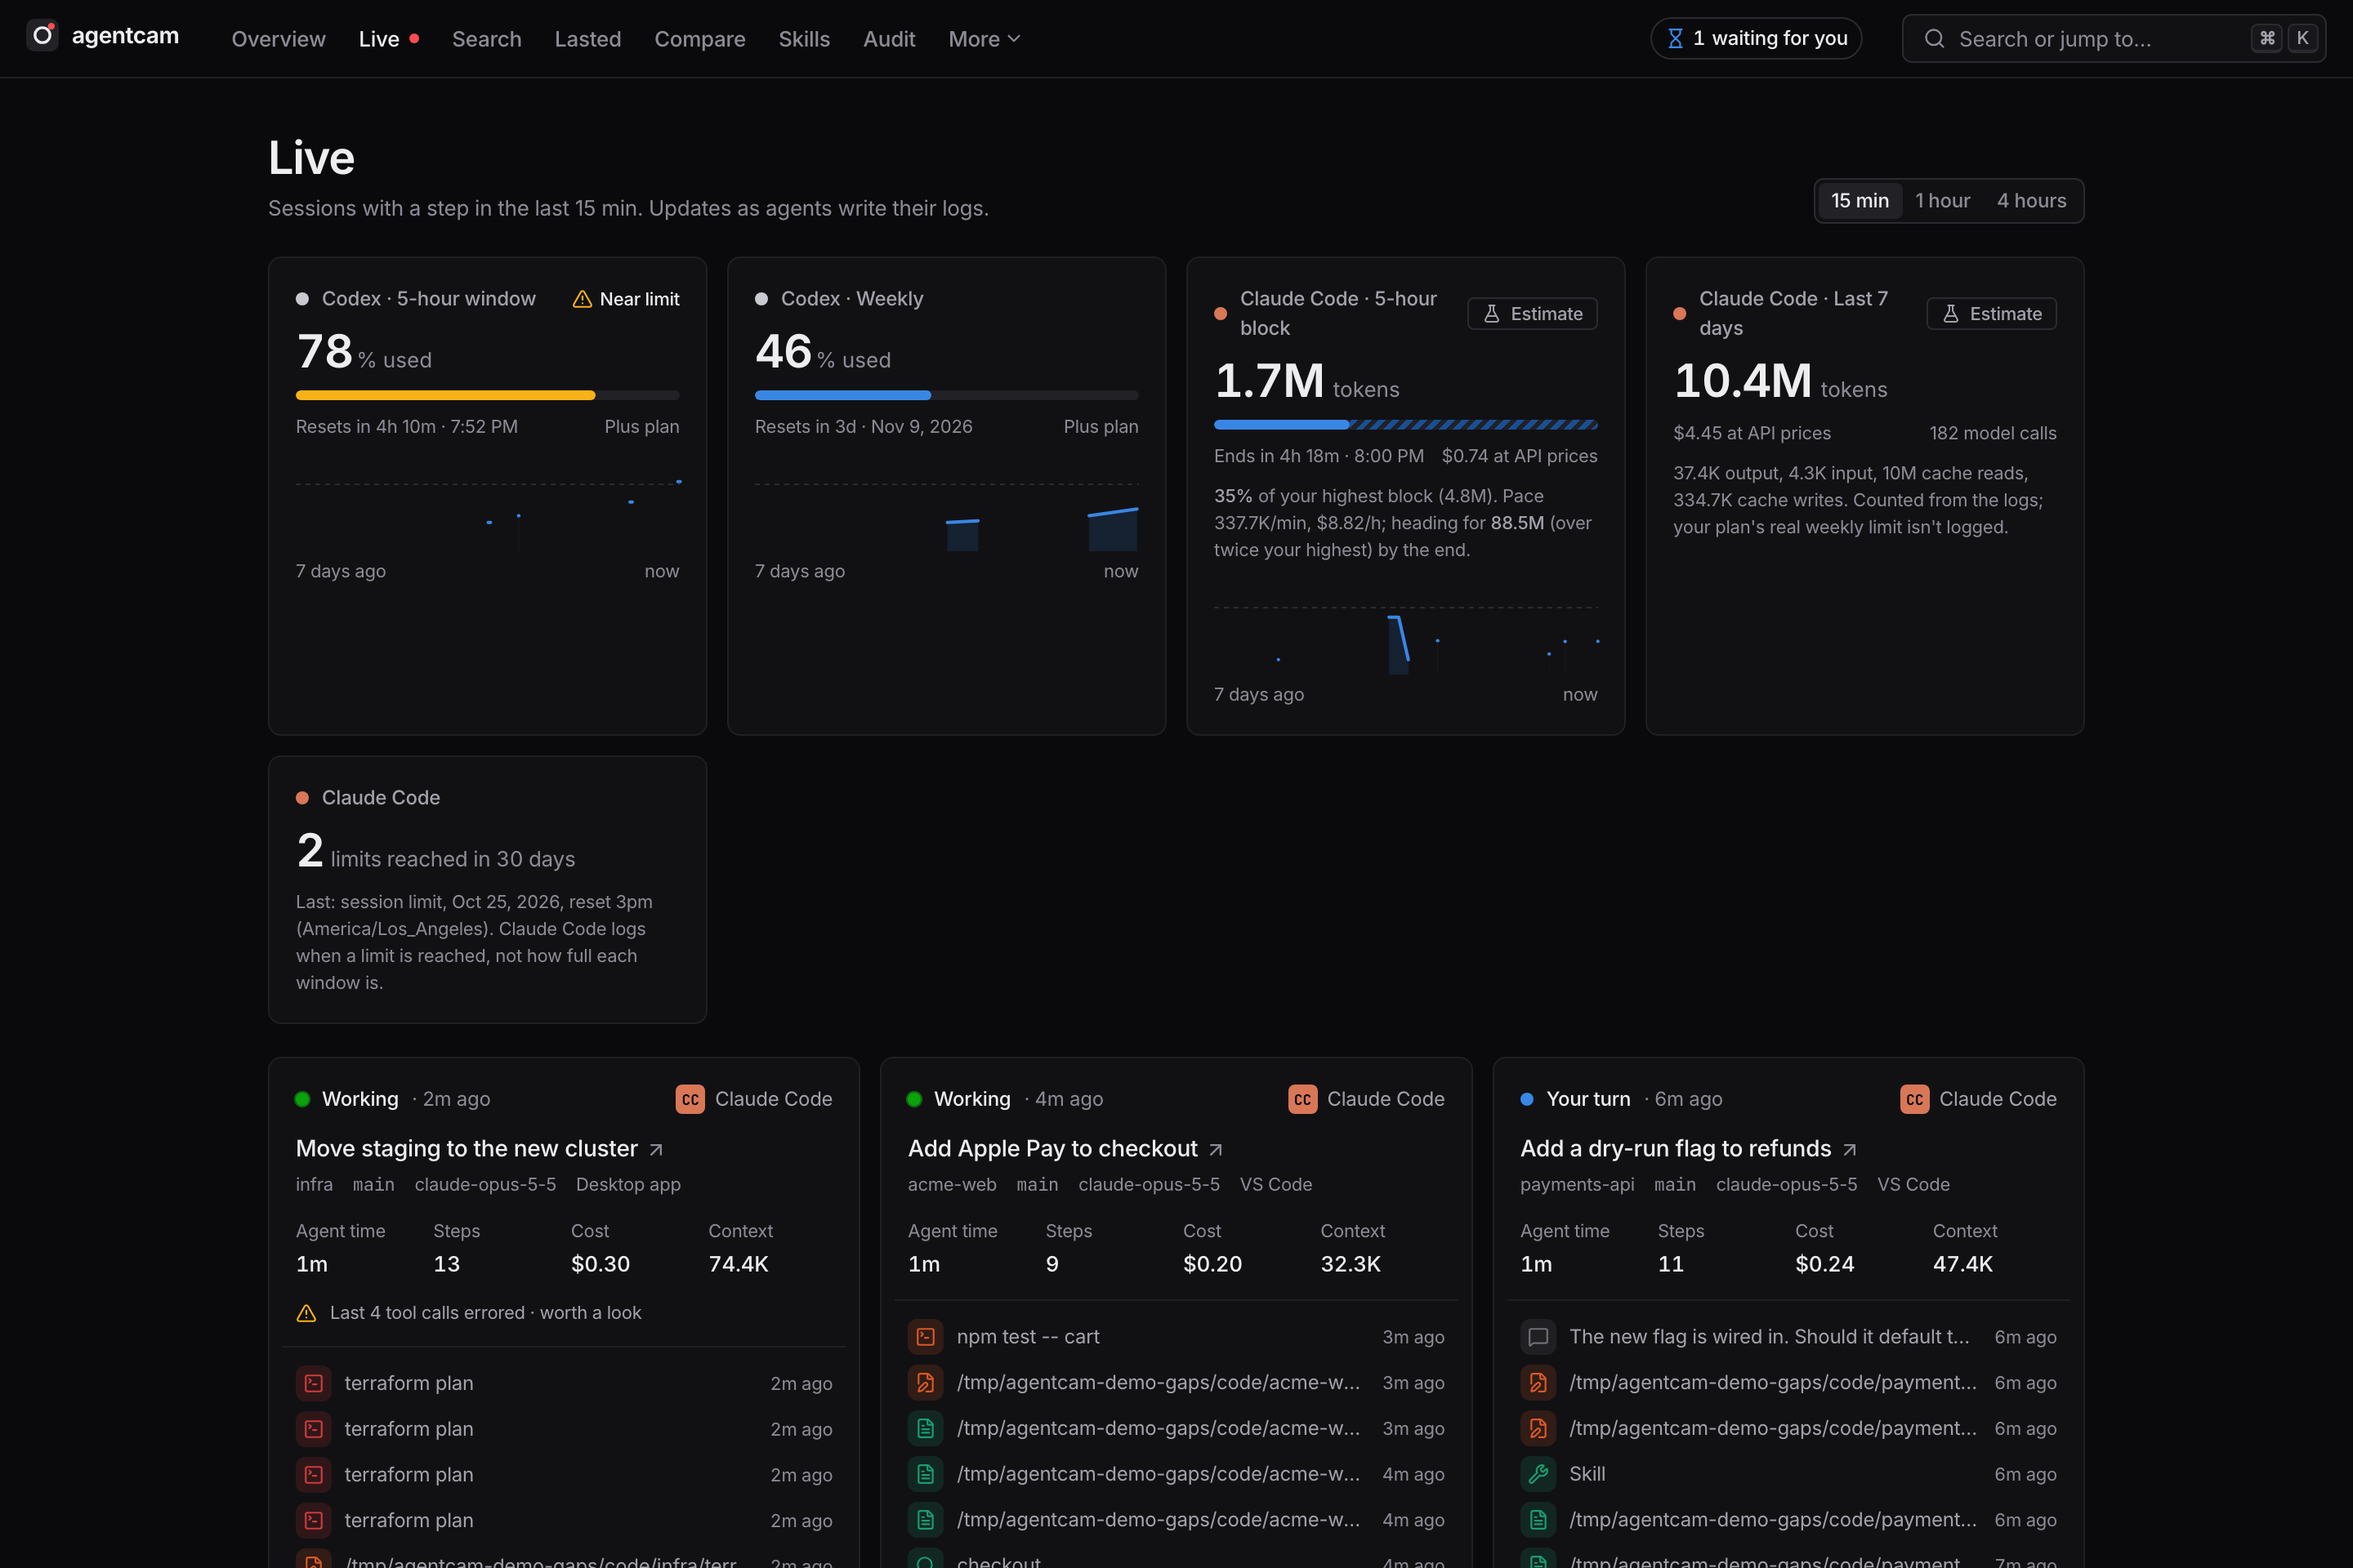
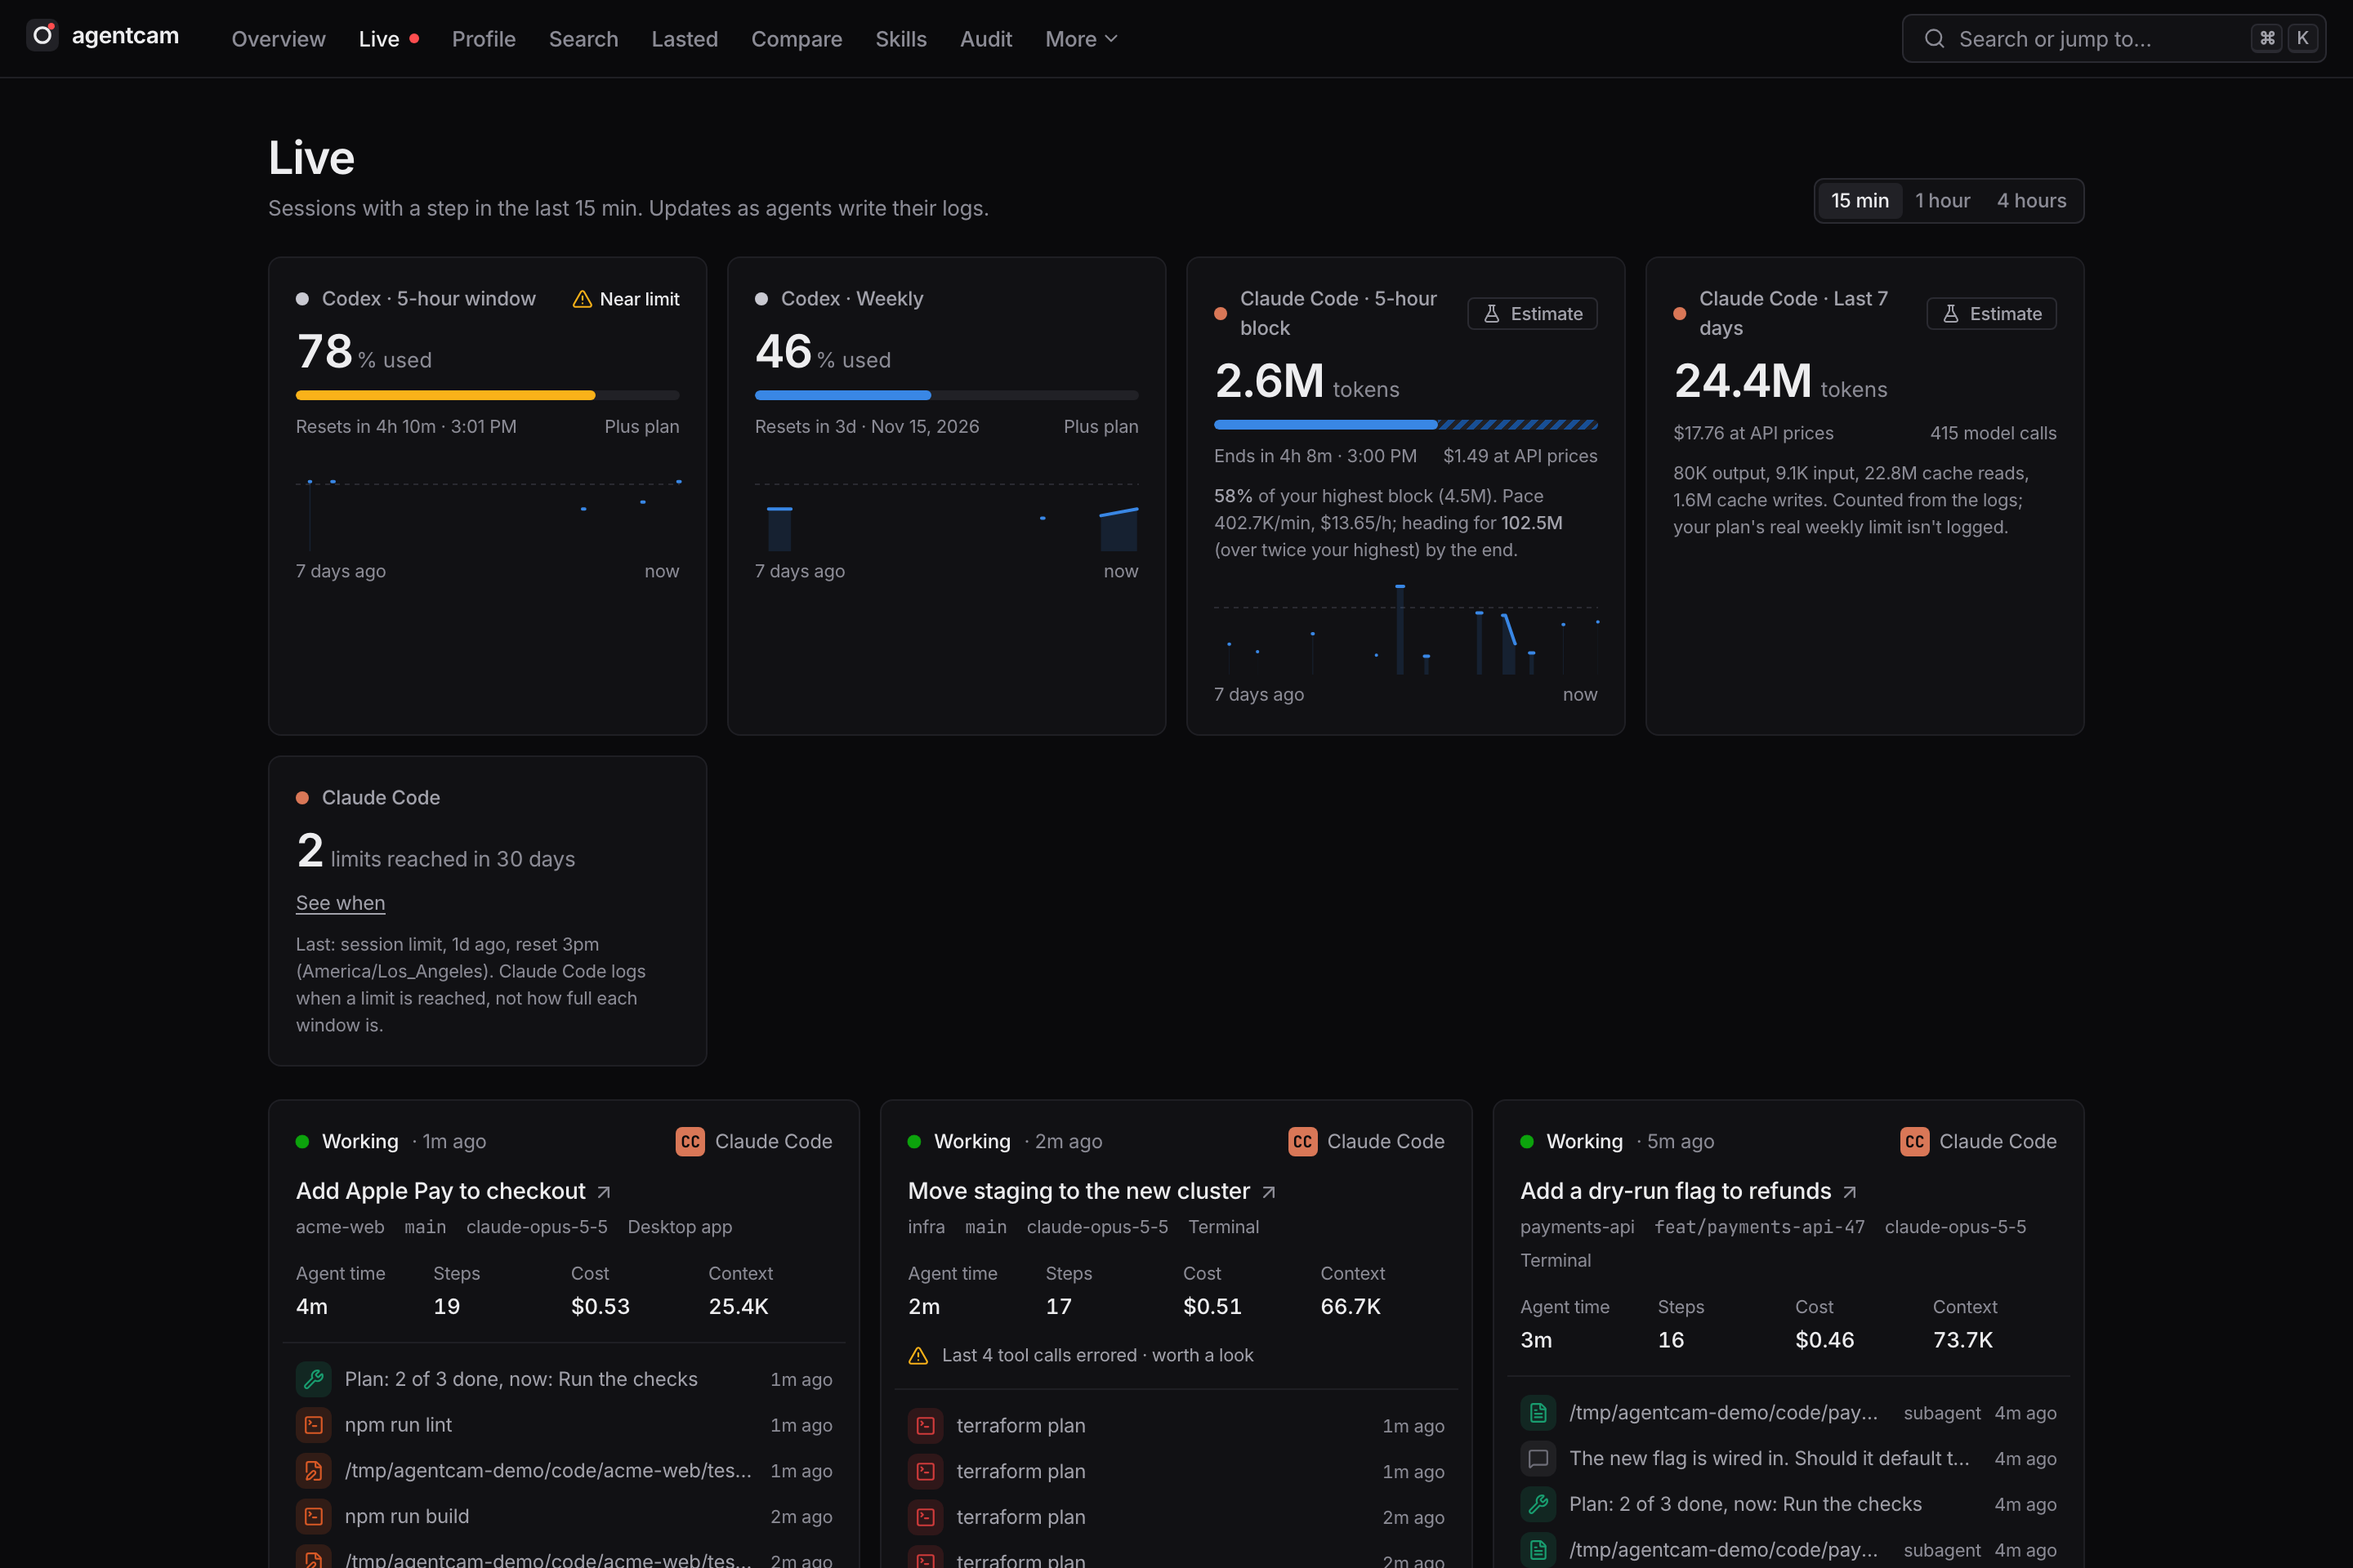
Styleguide rule for clickable numbers, changelog, retaken screenshots

diff --git a/web/src/pages/Styleguide.tsx b/web/src/pages/Styleguide.tsx
@@ -230,6 +230,11 @@ export function Styleguide() {
 
         <section id="components" className={s.section}>
           <h2>Components</h2>
+          <p className={s.rule}>
+            If it sums up steps, it opens them. A number, bar, row or badge that adds up steps opens those steps, and a click
+            never dead-ends: it lands on a filtered list or on a replay step. Hover and pointer only on things you can click,
+            and every one of those is a real button or link with text or an <code>aria-label</code>.
+          </p>
 
           <span className={s.sub}>Buttons</span>
           <div className={s.row}>
@@ -436,6 +441,11 @@ export function Styleguide() {
             for you", never "wasted" or "you were slow".
           </p>
           <TimeBar data={SAMPLE_TIME} />
+          <p className={s.rule}>
+            With <code>onPick</code>, each part, the reading note and the start note open what is behind them. Without it
+            (above) nothing is a button and nothing has a hover.
+          </p>
+          <TimeBar data={SAMPLE_TIME} title="Where the time went (clickable)" onPick={() => setDrawer(true)} />
         </section>
 
         <section id="drawer" className={s.section}>

diff --git a/CHANGELOG.md b/CHANGELOG.md
@@ -4,6 +4,15 @@ All notable changes to this project are documented here. The format follows [Kee
 
 ## Unreleased
 
+### Clickable numbers
+
+- Every number that sums up steps now opens them. A drawer on the right lists the steps behind a part of the time bar, a kind of token, a model, a cause of cache rebuilds or a fix, biggest first, and each row opens the replay at that step. The open number is kept in the address (`?behind=`), so the drawer can be linked and Back closes it. The route is `GET /api/behind`.
+- The fix card names the sessions it shows and has "See all N". A row in the ledger opens to its twelve weeks, with a line where the fix was marked done, and the runs since.
+- The replay header's numbers act: est. cost opens its split, peak context and errored jump to those steps, files changed goes to the list, the time strip jumps to the next step of its kind, and a dot on the timeline marks each cache rebuild.
+- The Overview's stats open Profile, Tools and Files, "steps errored" and "on retries and reverts" filter the session list (`?has=errors|findings|retries`, also `?model=`), session badges open the first finding, retry, error or the subagents, and the turns rows open Compare.
+- Setup: MCP servers open their calls and each check can show the row it is about. Tools: MCP server rows set the tool filter. What lasted: week and project rows narrow the files table. Thinking: model tiles narrow the list. Live: usage meters jump to the limits reached.
+- Session rows on the Overview are a title button stretched over the row, so badges inside them are real links.
+
 ### Profiler
 
 - Loud commands are a fix kind: a command whose output fills the context run after run, with a prompt that asks your agent for a quieter form. The index now keeps each tool output's full size (schema 16; the first run reads the logs again).
